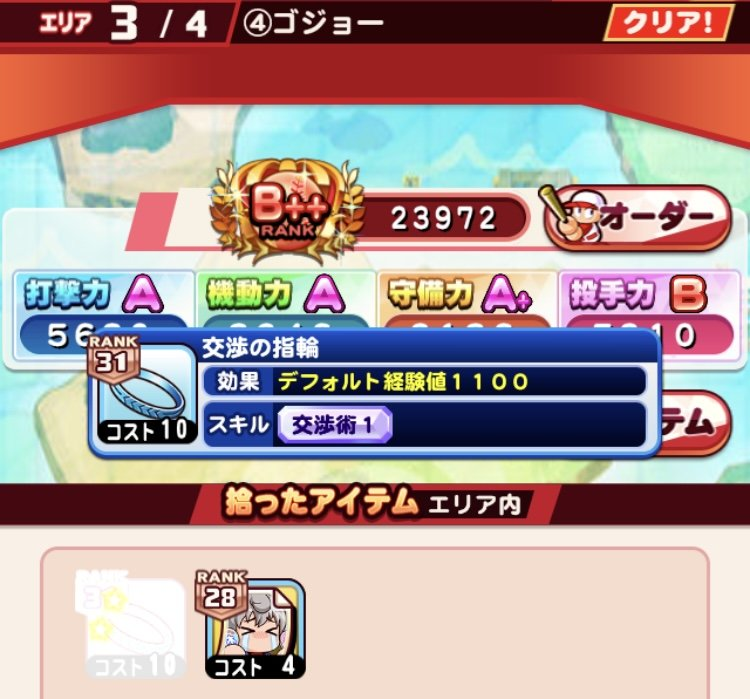
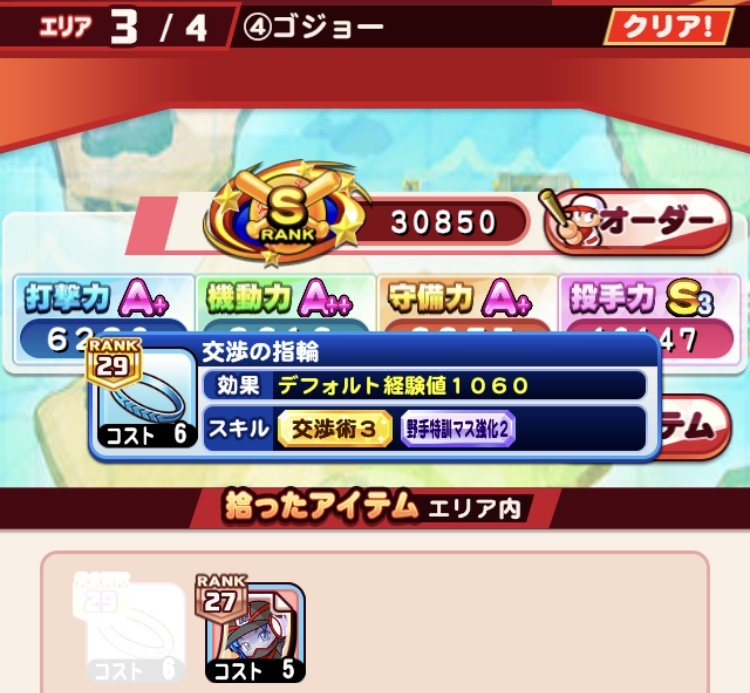
西球記クエスト④⑪の管理人メモを書き換え・④の画像を差し替え (#354)
* 西球記クエスト④の管理人メモを書き換え（画像は差し替え待ち）

Claude-Session: https://claude.ai/code/session_019YJeT2ksEZZ4rp6LiQsZVr

* 西球記クエスト④の画像を差し替え

Claude-Session: https://claude.ai/code/session_019YJeT2ksEZZ4rp6LiQsZVr

* 西球記クエスト④：メモ2行目を青文字に（管理人メモで {青:…} が使えるように）

Claude-Session: https://claude.ai/code/session_019YJeT2ksEZZ4rp6LiQsZVr

* 西球記クエスト⑪の管理人メモを書き換え（青・青太・赤の色指定）

Claude-Session: https://claude.ai/code/session_019YJeT2ksEZZ4rp6LiQsZVr

* 西球記クエスト一覧：⑯⑳など名前を区切り指定したクエストの不自然な間を詰める

Claude-Session: https://claude.ai/code/session_019YJeT2ksEZZ4rp6LiQsZVr

---------

diff --git a/src/pages/pawaque-saikyuki-quest.html b/src/pages/pawaque-saikyuki-quest.html
@@ -16,91 +16,91 @@ pq_order: 7
   <!-- QUESTS:START -->
 <div class="qc-list">
   <details class="qc qc-x" id="q1">
-    <summary><h3 class="qc-h"><span class="qc-t">①球神の名の下に</span><span class="qc-a">エリア数<b>3</b></span><span class="qc-arw" aria-hidden="true"></span></h3></summary>
+    <summary><h3 class="qc-h"><span class="qc-t"><span class="qc-n">①球神の名の下に</span></span><span class="qc-a">エリア数<b>3</b></span><span class="qc-arw" aria-hidden="true"></span></h3></summary>
     <dl class="qc-d"><dt>ドロップしやすいアイテム</dt><dd>契約書</dd><dt>ボスドロップ</dt><dd>矢部　明雄の契約書<br>など</dd></dl>
   </details>
   <details class="qc qc-x" id="q2">
-    <summary><h3 class="qc-h"><span class="qc-t">②ゴクゥ</span><span class="qc-a">エリア数<b>2</b></span><span class="qc-arw" aria-hidden="true"></span></h3></summary>
+    <summary><h3 class="qc-h"><span class="qc-t"><span class="qc-n">②ゴクゥ</span></span><span class="qc-a">エリア数<b>2</b></span><span class="qc-arw" aria-hidden="true"></span></h3></summary>
     <dl class="qc-d"><dt>ドロップしやすいアイテム</dt><dd>カード強化アイテム</dd><dt>ボスドロップ</dt><dd>香本　富久雄の契約書<br>赤原　勘八の契約書<br>など</dd></dl>
   </details>
   <details class="qc qc-x" id="q3">
-    <summary><h3 class="qc-h"><span class="qc-t">③ハッカイ</span><span class="qc-a">エリア数<b>3</b></span><span class="qc-arw" aria-hidden="true"></span></h3></summary>
+    <summary><h3 class="qc-h"><span class="qc-t"><span class="qc-n">③ハッカイ</span></span><span class="qc-a">エリア数<b>3</b></span><span class="qc-arw" aria-hidden="true"></span></h3></summary>
     <dl class="qc-d"><dt>ドロップしやすいアイテム</dt><dd>カード強化アイテム</dd><dt>ボスドロップ</dt><dd>マス強化アイテム<br>など</dd><dt>管理人メモ</dt><dd><span class="em-blue"><span class="cp-nw">このクエストから</span><span class="cp-nw">仙術・神前試合解禁</span></span></dd></dl>
   </details>
   <details class="qc qc-x" id="q4">
-    <summary><h3 class="qc-h"><span class="qc-t">④ゴジョー<span class="qc-tags"><span class="qc-tag qc-tag-b">※周回オススメ!</span></span></span><span class="qc-a">エリア数<b>4</b></span><span class="qc-arw" aria-hidden="true"></span></h3></summary>
-    <dl class="qc-d"><dt>ドロップしやすいアイテム</dt><dd>契約書</dd><dt>ボスドロップ</dt><dd>試合アイテム<br>交渉の指輪<br>など</dd><dt>管理人メモ</dt><dd>管理人はエリア3で交渉の指輪が初めてドロップしました。<img class="qc-img" src="{{root}}img/pawaque/saikyuki_q04_ring.jpg" alt="④の画像" loading="lazy"></dd></dl>
+    <summary><h3 class="qc-h"><span class="qc-t"><span class="qc-n">④ゴジョー</span><span class="qc-tags"><span class="qc-tag qc-tag-b">※周回オススメ!</span></span></span><span class="qc-a">エリア数<b>4</b></span><span class="qc-arw" aria-hidden="true"></span></h3></summary>
+    <dl class="qc-d"><dt>ドロップしやすいアイテム</dt><dd>契約書</dd><dt>ボスドロップ</dt><dd>試合アイテム<br>交渉の指輪<br>など</dd><dt>管理人メモ</dt><dd>エリア3グッドゴールにて交渉の指輪が高確率でドロップします。<br><span class="tx-b">⑪で入手した袋ノ書で使える「袋変換の術」の仙術を使って、交渉術3が付いた銀・金レアリティの交渉の指輪を厳選するのに向いています。</span><img class="qc-img" src="{{root}}img/pawaque/saikyuki_q04_ring.jpg" alt="④の画像" loading="lazy"></dd></dl>
   </details>
   <details class="qc qc-x" id="q5">
-    <summary><h3 class="qc-h"><span class="qc-t">⑤妖術野球流</span><span class="qc-a">エリア数<b>3</b></span><span class="qc-arw" aria-hidden="true"></span></h3></summary>
+    <summary><h3 class="qc-h"><span class="qc-t"><span class="qc-n">⑤妖術野球流</span></span><span class="qc-a">エリア数<b>3</b></span><span class="qc-arw" aria-hidden="true"></span></h3></summary>
     <dl class="qc-d"><dt>ドロップしやすいアイテム</dt><dd>試合アイテム</dd><dt>ボスドロップ</dt><dd>特能ノ書<br>呼応ノ書<br>金ノ書<br>など</dd></dl>
   </details>
   <details class="qc qc-x" id="q6">
-    <summary><h3 class="qc-h"><span class="qc-t">⑥刺客<span class="qc-tags"><span class="qc-tag qc-tag-b">※祈願あり</span></span></span><span class="qc-a">エリア数<b>4</b></span><span class="qc-arw" aria-hidden="true"></span></h3></summary>
+    <summary><h3 class="qc-h"><span class="qc-t"><span class="qc-n">⑥刺客</span><span class="qc-tags"><span class="qc-tag qc-tag-b">※祈願あり</span></span></span><span class="qc-a">エリア数<b>4</b></span><span class="qc-arw" aria-hidden="true"></span></h3></summary>
     <dl class="qc-d"><dt>ドロップしやすいアイテム</dt><dd>契約書<br>マス強化アイテム</dd><dt>ボスドロップ</dt><dd>野手特訓の秘伝書<br>投手特訓の秘伝書<br>など</dd><dt>管理人メモ</dt><dd><span class="em-blue">祈願エンディングあり</span></dd></dl>
   </details>
   <details class="qc qc-x" id="q7">
-    <summary><h3 class="qc-h"><span class="qc-t">⑦ひょうたんの中<span class="qc-tags"><span class="qc-tag qc-tag-r">※仙術不可</span></span></span><span class="qc-a">エリア数<b>3</b></span><span class="qc-arw" aria-hidden="true"></span></h3></summary>
+    <summary><h3 class="qc-h"><span class="qc-t"><span class="qc-n">⑦ひょうたんの中</span><span class="qc-tags"><span class="qc-tag qc-tag-r">※仙術不可</span></span></span><span class="qc-a">エリア数<b>3</b></span><span class="qc-arw" aria-hidden="true"></span></h3></summary>
     <dl class="qc-d"><dt>ドロップしやすいアイテム</dt><dd>契約書<br>試合アイテム</dd><dt>ボスドロップ</dt><dd>特殊能力攻略本<br>交渉の指輪<br>など</dd><dt>管理人メモ</dt><dd><span class="em-red">仙術は使用不可</span><br>管理人はエリア2で払拭のお札が初めてドロップしました。<img class="qc-img" src="{{root}}img/pawaque/saikyuki_q07_ofuda.jpg" alt="⑦の画像" loading="lazy"></dd></dl>
   </details>
   <details class="qc qc-x" id="q8">
-    <summary><h3 class="qc-h"><span class="qc-t">⑧斉遊野球流<span class="qc-tags"><span class="qc-tag qc-tag-r">※仙術不可</span></span></span><span class="qc-a">エリア数<b>4</b></span><span class="qc-arw" aria-hidden="true"></span></h3></summary>
+    <summary><h3 class="qc-h"><span class="qc-t"><span class="qc-n">⑧斉遊野球流</span><span class="qc-tags"><span class="qc-tag qc-tag-r">※仙術不可</span></span></span><span class="qc-a">エリア数<b>4</b></span><span class="qc-arw" aria-hidden="true"></span></h3></summary>
     <dl class="qc-d"><dt>ドロップしやすいアイテム</dt><dd>契約書<br>カード強化アイテム</dd><dt>ボスドロップ</dt><dd>ミートの良い巻物<br>パワーの良い巻物<br>走力の良い巻物<br>肩力の良い巻物<br>守備の良い巻物<br>など</dd><dt>管理人メモ</dt><dd><span class="em-red">仙術は使用不可</span></dd></dl>
   </details>
   <details class="qc qc-x" id="q9">
-    <summary><h3 class="qc-h"><span class="qc-t">⑨謎の医者</span><span class="qc-a">エリア数<b>2</b></span><span class="qc-arw" aria-hidden="true"></span></h3></summary>
+    <summary><h3 class="qc-h"><span class="qc-t"><span class="qc-n">⑨謎の医者</span></span><span class="qc-a">エリア数<b>2</b></span><span class="qc-arw" aria-hidden="true"></span></h3></summary>
     <dl class="qc-d"><dt>ドロップしやすいアイテム</dt><dd>契約書<br>カード強化アイテム</dd><dt>ボスドロップ</dt><dd><span class="em-blue">［超攻型］大西の契約書（低確率）</span><br>呼び寄せの香<br>幸運の金丹<br>など</dd></dl>
   </details>
   <details class="qc qc-x" id="q10">
-    <summary><h3 class="qc-h"><span class="qc-t">⑩炎の壁</span><span class="qc-a">エリア数<b>5</b></span><span class="qc-arw" aria-hidden="true"></span></h3></summary>
+    <summary><h3 class="qc-h"><span class="qc-t"><span class="qc-n">⑩炎の壁</span></span><span class="qc-a">エリア数<b>5</b></span><span class="qc-arw" aria-hidden="true"></span></h3></summary>
     <dl class="qc-d"><dt>ドロップしやすいアイテム</dt><dd>契約書<br>試合アイテム</dd><dt>ボスドロップ</dt><dd>潮来　美霊の契約書<br>曙　緋緒の契約書<br><span class="em-blue">［満開ステップ］ゼルヴィーの契約書（低確率）</span><br>パワ子の契約書（低確率）<br><span class="em-blue">［ムーンライト］橘　みずきの契約書（低確率）</span><br>など</dd></dl>
   </details>
   <details class="qc qc-x" id="q11">
-    <summary><h3 class="qc-h"><span class="qc-t">⑪決戦のとき<span class="qc-tags"><span class="qc-tag qc-tag-b">※周回オススメ!</span></span></span><span class="qc-a">エリア数<b>2</b></span><span class="qc-arw" aria-hidden="true"></span></h3></summary>
-    <dl class="qc-d"><dt>ドロップしやすいアイテム</dt><dd>契約書<br>カード強化アイテム</dd><dt>ボスドロップ</dt><dd>袋ノ書<br>野訓ノ書<br>など</dd><dt>管理人メモ</dt><dd><span class="em-blue"><span class="cp-nw">管理人はここで初めて</span><span class="cp-nw">袋ノ書がドロップしました。</span></span><img class="qc-img" src="{{root}}img/pawaque/saikyuki_q11_fukuro.jpg" alt="⑪の画像" loading="lazy"></dd></dl>
+    <summary><h3 class="qc-h"><span class="qc-t"><span class="qc-n">⑪決戦のとき</span><span class="qc-tags"><span class="qc-tag qc-tag-b">※周回オススメ!</span></span></span><span class="qc-a">エリア数<b>2</b></span><span class="qc-arw" aria-hidden="true"></span></h3></summary>
+    <dl class="qc-d"><dt>ドロップしやすいアイテム</dt><dd>契約書<br>カード強化アイテム</dd><dt>ボスドロップ</dt><dd>袋ノ書<br>野訓ノ書<br>など</dd><dt>管理人メモ</dt><dd>エリア1クリアで、袋ノ書が実践上確定でドロップします。<br><span class="tx-b">仙術「袋変換の術」を使って、銀・金レアリティかつ、優秀なスキルが付いた袋ノ書を厳選するのに向いています。</span><br>スキルの狙い目は、<span class="em-blue">「ターンアップ」「〇カード特殊能力」</span>などです。<br>実践上、<span class="tx-r">ここでドロップする袋ノ書には西球記専用スキル(祈願率UPなど)は追加で付かないようです。</span>付いた方いたらXなどで教えて頂けると幸いです。<img class="qc-img" src="{{root}}img/pawaque/saikyuki_q11_fukuro.jpg" alt="⑪の画像" loading="lazy"></dd></dl>
   </details>
   <details class="qc qc-x" id="q12">
-    <summary><h3 class="qc-h"><span class="qc-t">⑫旅は続く<span class="qc-tags"><span class="qc-tag qc-tag-b">※祈願あり</span></span></span><span class="qc-a">エリア数<b>4</b></span><span class="qc-arw" aria-hidden="true"></span></h3></summary>
+    <summary><h3 class="qc-h"><span class="qc-t"><span class="qc-n">⑫旅は続く</span><span class="qc-tags"><span class="qc-tag qc-tag-b">※祈願あり</span></span></span><span class="qc-a">エリア数<b>4</b></span><span class="qc-arw" aria-hidden="true"></span></h3></summary>
     <dl class="qc-d"><dt>ドロップしやすいアイテム</dt><dd>契約書<br>カード強化アイテム</dd><dt>ボスドロップ</dt><dd><span class="em-blue">［アルティメット］明神　陽の契約書（超低確率）</span><br><span class="em-blue">［白轟］北斗　八雲の契約書（低確率）</span><br>リュック＋<br>など</dd><dt>管理人メモ</dt><dd><span class="em-blue">祈願エンディングあり<br><span class="cp-nw">管理人はここで初めて</span><span class="cp-nw">リュック＋がドロップしました。</span></span><img class="qc-img" src="{{root}}img/pawaque/saikyuki_q12_ryukku.jpg" alt="⑫の画像" loading="lazy"></dd></dl>
   </details>
   <details class="qc qc-x" id="q13">
-    <summary><h3 class="qc-h"><span class="qc-t">⑬道中１<span class="qc-tags"><span class="qc-tag qc-tag-b">※祈願あり</span></span></span><span class="qc-a">エリア数<b>3</b></span><span class="qc-arw" aria-hidden="true"></span></h3></summary>
+    <summary><h3 class="qc-h"><span class="qc-t"><span class="qc-n">⑬道中１</span><span class="qc-tags"><span class="qc-tag qc-tag-b">※祈願あり</span></span></span><span class="qc-a">エリア数<b>3</b></span><span class="qc-arw" aria-hidden="true"></span></h3></summary>
     <dl class="qc-d"><dt>ドロップしやすいアイテム</dt><dd>契約書</dd><dt>ボスドロップ</dt><dd><span class="em-blue">［パワポケ］鋼　毅の契約書</span><br><span class="em-blue">［猫かぶり］大空　美代子の契約書</span><br><span class="em-blue">［花丸］レッドの契約書（超低確率）</span><br>リュック＋<br>など</dd><dt>管理人メモ</dt><dd><span class="em-blue">祈願エンディングあり</span></dd></dl>
   </details>
   <details class="qc qc-x" id="q14">
-    <summary><h3 class="qc-h"><span class="qc-t">⑭妖の首領</span><span class="qc-a">エリア数<b>2</b></span><span class="qc-arw" aria-hidden="true"></span></h3></summary>
+    <summary><h3 class="qc-h"><span class="qc-t"><span class="qc-n">⑭妖の首領</span></span><span class="qc-a">エリア数<b>2</b></span><span class="qc-arw" aria-hidden="true"></span></h3></summary>
     <dl class="qc-d"><dt>ドロップしやすいアイテム</dt><dd>契約書</dd><dt>ボスドロップ</dt><dd>投訓ノ書<br>空白ノ書<br>巨大リュック<br>など</dd></dl>
   </details>
   <details class="qc qc-x" id="q15">
-    <summary><h3 class="qc-h"><span class="qc-t">⑮天塁</span><span class="qc-a">エリア数<b>4</b></span><span class="qc-arw" aria-hidden="true"></span></h3></summary>
+    <summary><h3 class="qc-h"><span class="qc-t"><span class="qc-n">⑮天塁</span></span><span class="qc-a">エリア数<b>4</b></span><span class="qc-arw" aria-hidden="true"></span></h3></summary>
     <dl class="qc-d"><dt>ドロップしやすいアイテム</dt><dd>契約書</dd><dt>ボスドロップ</dt><dd><span class="em-blue">［秘密兵器］虹谷　彩理の契約書</span><br><span class="em-blue">［最終兵器］虹谷　誠の契約書（超低確率）</span><br><span class="em-blue">［帝王実業］友沢　亮の契約書</span><br><span class="em-blue">［ピクニック］高原　曲の契約書</span><br>など</dd></dl>
   </details>
   <details class="qc qc-x" id="q16">
-    <summary><h3 class="qc-h"><span class="qc-t">⑯<span class="cp-nw">妖術野球流の</span><span class="cp-nw">陰謀</span><span class="qc-tags"><span class="qc-tag qc-tag-r">※仙術不可</span></span></span><span class="qc-a">エリア数<b>2</b></span><span class="qc-arw" aria-hidden="true"></span></h3></summary>
+    <summary><h3 class="qc-h"><span class="qc-t"><span class="qc-n">⑯<span class="cp-nw">妖術野球流の</span><span class="cp-nw">陰謀</span></span><span class="qc-tags"><span class="qc-tag qc-tag-r">※仙術不可</span></span></span><span class="qc-a">エリア数<b>2</b></span><span class="qc-arw" aria-hidden="true"></span></h3></summary>
     <dl class="qc-d"><dt>ドロップしやすいアイテム</dt><dd>カード強化アイテム</dd><dt>ボスドロップ</dt><dd>特殊能力攻略本<br>など</dd><dt>管理人メモ</dt><dd><span class="em-red">仙術は使用不可</span></dd></dl>
   </details>
   <details class="qc qc-x" id="q17">
-    <summary><h3 class="qc-h"><span class="qc-t">⑰紅朱</span><span class="qc-a">エリア数<b>5</b></span><span class="qc-arw" aria-hidden="true"></span></h3></summary>
+    <summary><h3 class="qc-h"><span class="qc-t"><span class="qc-n">⑰紅朱</span></span><span class="qc-a">エリア数<b>5</b></span><span class="qc-arw" aria-hidden="true"></span></h3></summary>
     <dl class="qc-d"><dt>ドロップしやすいアイテム</dt><dd>カード強化アイテム</dd><dt>ボスドロップ</dt><dd><span class="em-blue">［わんこだよ！］パーちゃんの契約書</span><br><span class="em-blue">［最終兵器］虹谷　誠の契約書（超低確率）</span><br>など</dd></dl>
   </details>
   <details class="qc qc-x" id="q18">
-    <summary><h3 class="qc-h"><span class="qc-t">⑱道中２<span class="qc-tags"><span class="qc-tag qc-tag-b">※祈願あり</span></span></span><span class="qc-a">エリア数<b>3</b></span><span class="qc-arw" aria-hidden="true"></span></h3></summary>
+    <summary><h3 class="qc-h"><span class="qc-t"><span class="qc-n">⑱道中２</span><span class="qc-tags"><span class="qc-tag qc-tag-b">※祈願あり</span></span></span><span class="qc-a">エリア数<b>3</b></span><span class="qc-arw" aria-hidden="true"></span></h3></summary>
     <dl class="qc-d"><dt>ドロップしやすいアイテム</dt><dd>契約書<br>マス強化アイテム</dd><dt>ボスドロップ</dt><dd>巨大リュック＋<br>特殊能力秘伝書<br><span class="em-blue">［アルティメット］明神　陽の契約書（超低確率）</span><br>など</dd><dt>管理人メモ</dt><dd><span class="em-blue">祈願エンディングあり</span></dd></dl>
   </details>
   <details class="qc qc-x" id="q19">
-    <summary><h3 class="qc-h"><span class="qc-t">⑲道中３<span class="qc-tags"><span class="qc-tag qc-tag-b">※祈願あり</span></span></span><span class="qc-a">エリア数<b>3</b></span><span class="qc-arw" aria-hidden="true"></span></h3></summary>
+    <summary><h3 class="qc-h"><span class="qc-t"><span class="qc-n">⑲道中３</span><span class="qc-tags"><span class="qc-tag qc-tag-b">※祈願あり</span></span></span><span class="qc-a">エリア数<b>3</b></span><span class="qc-arw" aria-hidden="true"></span></h3></summary>
     <dl class="qc-d"><dt>ドロップしやすいアイテム</dt><dd>契約書</dd><dt>ボスドロップ</dt><dd>巨大リュック＋<br>特能ノ書<br>金ノ書<br><span class="em-blue">［超攻型］大西の契約書</span><br><span class="em-blue">［匠の技］堂江の契約書（低確率）</span><br>など</dd><dt>管理人メモ</dt><dd><span class="em-blue">祈願エンディングあり</span><br><span class="em-red">神前試合マスが少ない</span></dd></dl>
   </details>
   <details class="qc qc-x" id="q20">
-    <summary><h3 class="qc-h"><span class="qc-t">⑳<span class="cp-nw">原典の</span><span class="cp-nw">ルールブック</span></span><span class="qc-a">エリア数<b>5</b></span><span class="qc-arw" aria-hidden="true"></span></h3></summary>
+    <summary><h3 class="qc-h"><span class="qc-t"><span class="qc-n">⑳<span class="cp-nw">原典の</span><span class="cp-nw">ルールブック</span></span></span><span class="qc-a">エリア数<b>5</b></span><span class="qc-arw" aria-hidden="true"></span></h3></summary>
     <dl class="qc-d"><dt>ドロップしやすいアイテム</dt><dd>契約書<br>マス強化アイテム</dd><dt>ボスドロップ</dt><dd>巨大リュック＋<br><span class="em-blue">［最終兵器］虹谷　誠の契約書（超低確率）</span><br>など</dd></dl>
   </details>
   <details class="qc qc-x" id="q21">
-    <summary><h3 class="qc-h"><span class="qc-t">むずクエ<span class="qc-tags"><span class="qc-tag qc-tag-b">※祈願あり</span></span></span><span class="qc-a">エリア数<b>3</b></span><span class="qc-arw" aria-hidden="true"></span></h3></summary>
+    <summary><h3 class="qc-h"><span class="qc-t"><span class="qc-n">むずクエ</span><span class="qc-tags"><span class="qc-tag qc-tag-b">※祈願あり</span></span></span><span class="qc-a">エリア数<b>3</b></span><span class="qc-arw" aria-hidden="true"></span></h3></summary>
     <dl class="qc-d"><dt>ドロップしやすいアイテム</dt><dd>契約書<br>カード強化アイテム</dd><dt>ボスドロップ</dt><dd>巨大リュック＋<br>異世界のカバン<br>アフロ猪狩の契約書<br>野球マスクの契約書<br>など</dd><dt>管理人メモ</dt><dd><span class="em-blue">祈願エンディングあり</span></dd></dl>
   </details>
   <details class="qc qc-x" id="q22">
-    <summary><h3 class="qc-h"><span class="qc-t">むちゃクエ</span><span class="qc-a">エリア数<b>5</b></span><span class="qc-arw" aria-hidden="true"></span></h3></summary>
+    <summary><h3 class="qc-h"><span class="qc-t"><span class="qc-n">むちゃクエ</span></span><span class="qc-a">エリア数<b>5</b></span><span class="qc-arw" aria-hidden="true"></span></h3></summary>
     <dl class="qc-d"><dt>ドロップしやすいアイテム</dt><dd>契約書<br>マス強化アイテム</dd><dt>ボスドロップ</dt><dd>巨大リュック＋<br>異世界のカバン<br><span class="em-blue">［匠の技］堂江の契約書（低確率）</span><br><span class="em-blue">［アルティメット］明神　陽の契約書（超低確率）</span><br>など</dd></dl>
   </details>
 </div>

diff --git a/docs/pawaque/saikyuki/quest/index.html b/docs/pawaque/saikyuki/quest/index.html
@@ -65,91 +65,91 @@
   <!-- QUESTS:START -->
 <div class="qc-list">
   <details class="qc qc-x" id="q1">
-    <summary><h3 class="qc-h"><span class="qc-t">①球神の名の下に</span><span class="qc-a">エリア数<b>3</b></span><span class="qc-arw" aria-hidden="true"></span></h3></summary>
+    <summary><h3 class="qc-h"><span class="qc-t"><span class="qc-n">①球神の名の下に</span></span><span class="qc-a">エリア数<b>3</b></span><span class="qc-arw" aria-hidden="true"></span></h3></summary>
     <dl class="qc-d"><dt>ドロップしやすいアイテム</dt><dd>契約書</dd><dt>ボスドロップ</dt><dd>矢部　明雄の契約書<br>など</dd></dl>
   </details>
   <details class="qc qc-x" id="q2">
-    <summary><h3 class="qc-h"><span class="qc-t">②ゴクゥ</span><span class="qc-a">エリア数<b>2</b></span><span class="qc-arw" aria-hidden="true"></span></h3></summary>
+    <summary><h3 class="qc-h"><span class="qc-t"><span class="qc-n">②ゴクゥ</span></span><span class="qc-a">エリア数<b>2</b></span><span class="qc-arw" aria-hidden="true"></span></h3></summary>
     <dl class="qc-d"><dt>ドロップしやすいアイテム</dt><dd>カード強化アイテム</dd><dt>ボスドロップ</dt><dd>香本　富久雄の契約書<br>赤原　勘八の契約書<br>など</dd></dl>
   </details>
   <details class="qc qc-x" id="q3">
-    <summary><h3 class="qc-h"><span class="qc-t">③ハッカイ</span><span class="qc-a">エリア数<b>3</b></span><span class="qc-arw" aria-hidden="true"></span></h3></summary>
+    <summary><h3 class="qc-h"><span class="qc-t"><span class="qc-n">③ハッカイ</span></span><span class="qc-a">エリア数<b>3</b></span><span class="qc-arw" aria-hidden="true"></span></h3></summary>
     <dl class="qc-d"><dt>ドロップしやすいアイテム</dt><dd>カード強化アイテム</dd><dt>ボスドロップ</dt><dd>マス強化アイテム<br>など</dd><dt>管理人メモ</dt><dd><span class="em-blue"><span class="cp-nw">このクエストから</span><span class="cp-nw">仙術・神前試合解禁</span></span></dd></dl>
   </details>
   <details class="qc qc-x" id="q4">
-    <summary><h3 class="qc-h"><span class="qc-t">④ゴジョー<span class="qc-tags"><span class="qc-tag qc-tag-b">※周回オススメ!</span></span></span><span class="qc-a">エリア数<b>4</b></span><span class="qc-arw" aria-hidden="true"></span></h3></summary>
-    <dl class="qc-d"><dt>ドロップしやすいアイテム</dt><dd>契約書</dd><dt>ボスドロップ</dt><dd>試合アイテム<br>交渉の指輪<br>など</dd><dt>管理人メモ</dt><dd>管理人はエリア3で交渉の指輪が初めてドロップしました。<img class="qc-img" src="../../../img/pawaque/saikyuki_q04_ring.jpg" alt="④の画像" loading="lazy"></dd></dl>
+    <summary><h3 class="qc-h"><span class="qc-t"><span class="qc-n">④ゴジョー</span><span class="qc-tags"><span class="qc-tag qc-tag-b">※周回オススメ!</span></span></span><span class="qc-a">エリア数<b>4</b></span><span class="qc-arw" aria-hidden="true"></span></h3></summary>
+    <dl class="qc-d"><dt>ドロップしやすいアイテム</dt><dd>契約書</dd><dt>ボスドロップ</dt><dd>試合アイテム<br>交渉の指輪<br>など</dd><dt>管理人メモ</dt><dd>エリア3グッドゴールにて交渉の指輪が高確率でドロップします。<br><span class="tx-b">⑪で入手した袋ノ書で使える「袋変換の術」の仙術を使って、交渉術3が付いた銀・金レアリティの交渉の指輪を厳選するのに向いています。</span><img class="qc-img" src="../../../img/pawaque/saikyuki_q04_ring.jpg" alt="④の画像" loading="lazy"></dd></dl>
   </details>
   <details class="qc qc-x" id="q5">
-    <summary><h3 class="qc-h"><span class="qc-t">⑤妖術野球流</span><span class="qc-a">エリア数<b>3</b></span><span class="qc-arw" aria-hidden="true"></span></h3></summary>
+    <summary><h3 class="qc-h"><span class="qc-t"><span class="qc-n">⑤妖術野球流</span></span><span class="qc-a">エリア数<b>3</b></span><span class="qc-arw" aria-hidden="true"></span></h3></summary>
     <dl class="qc-d"><dt>ドロップしやすいアイテム</dt><dd>試合アイテム</dd><dt>ボスドロップ</dt><dd>特能ノ書<br>呼応ノ書<br>金ノ書<br>など</dd></dl>
   </details>
   <details class="qc qc-x" id="q6">
-    <summary><h3 class="qc-h"><span class="qc-t">⑥刺客<span class="qc-tags"><span class="qc-tag qc-tag-b">※祈願あり</span></span></span><span class="qc-a">エリア数<b>4</b></span><span class="qc-arw" aria-hidden="true"></span></h3></summary>
+    <summary><h3 class="qc-h"><span class="qc-t"><span class="qc-n">⑥刺客</span><span class="qc-tags"><span class="qc-tag qc-tag-b">※祈願あり</span></span></span><span class="qc-a">エリア数<b>4</b></span><span class="qc-arw" aria-hidden="true"></span></h3></summary>
     <dl class="qc-d"><dt>ドロップしやすいアイテム</dt><dd>契約書<br>マス強化アイテム</dd><dt>ボスドロップ</dt><dd>野手特訓の秘伝書<br>投手特訓の秘伝書<br>など</dd><dt>管理人メモ</dt><dd><span class="em-blue">祈願エンディングあり</span></dd></dl>
   </details>
   <details class="qc qc-x" id="q7">
-    <summary><h3 class="qc-h"><span class="qc-t">⑦ひょうたんの中<span class="qc-tags"><span class="qc-tag qc-tag-r">※仙術不可</span></span></span><span class="qc-a">エリア数<b>3</b></span><span class="qc-arw" aria-hidden="true"></span></h3></summary>
+    <summary><h3 class="qc-h"><span class="qc-t"><span class="qc-n">⑦ひょうたんの中</span><span class="qc-tags"><span class="qc-tag qc-tag-r">※仙術不可</span></span></span><span class="qc-a">エリア数<b>3</b></span><span class="qc-arw" aria-hidden="true"></span></h3></summary>
     <dl class="qc-d"><dt>ドロップしやすいアイテム</dt><dd>契約書<br>試合アイテム</dd><dt>ボスドロップ</dt><dd>特殊能力攻略本<br>交渉の指輪<br>など</dd><dt>管理人メモ</dt><dd><span class="em-red">仙術は使用不可</span><br>管理人はエリア2で払拭のお札が初めてドロップしました。<img class="qc-img" src="../../../img/pawaque/saikyuki_q07_ofuda.jpg" alt="⑦の画像" loading="lazy"></dd></dl>
   </details>
   <details class="qc qc-x" id="q8">
-    <summary><h3 class="qc-h"><span class="qc-t">⑧斉遊野球流<span class="qc-tags"><span class="qc-tag qc-tag-r">※仙術不可</span></span></span><span class="qc-a">エリア数<b>4</b></span><span class="qc-arw" aria-hidden="true"></span></h3></summary>
+    <summary><h3 class="qc-h"><span class="qc-t"><span class="qc-n">⑧斉遊野球流</span><span class="qc-tags"><span class="qc-tag qc-tag-r">※仙術不可</span></span></span><span class="qc-a">エリア数<b>4</b></span><span class="qc-arw" aria-hidden="true"></span></h3></summary>
     <dl class="qc-d"><dt>ドロップしやすいアイテム</dt><dd>契約書<br>カード強化アイテム</dd><dt>ボスドロップ</dt><dd>ミートの良い巻物<br>パワーの良い巻物<br>走力の良い巻物<br>肩力の良い巻物<br>守備の良い巻物<br>など</dd><dt>管理人メモ</dt><dd><span class="em-red">仙術は使用不可</span></dd></dl>
   </details>
   <details class="qc qc-x" id="q9">
-    <summary><h3 class="qc-h"><span class="qc-t">⑨謎の医者</span><span class="qc-a">エリア数<b>2</b></span><span class="qc-arw" aria-hidden="true"></span></h3></summary>
+    <summary><h3 class="qc-h"><span class="qc-t"><span class="qc-n">⑨謎の医者</span></span><span class="qc-a">エリア数<b>2</b></span><span class="qc-arw" aria-hidden="true"></span></h3></summary>
     <dl class="qc-d"><dt>ドロップしやすいアイテム</dt><dd>契約書<br>カード強化アイテム</dd><dt>ボスドロップ</dt><dd><span class="em-blue">［超攻型］大西の契約書（低確率）</span><br>呼び寄せの香<br>幸運の金丹<br>など</dd></dl>
   </details>
   <details class="qc qc-x" id="q10">
-    <summary><h3 class="qc-h"><span class="qc-t">⑩炎の壁</span><span class="qc-a">エリア数<b>5</b></span><span class="qc-arw" aria-hidden="true"></span></h3></summary>
+    <summary><h3 class="qc-h"><span class="qc-t"><span class="qc-n">⑩炎の壁</span></span><span class="qc-a">エリア数<b>5</b></span><span class="qc-arw" aria-hidden="true"></span></h3></summary>
     <dl class="qc-d"><dt>ドロップしやすいアイテム</dt><dd>契約書<br>試合アイテム</dd><dt>ボスドロップ</dt><dd>潮来　美霊の契約書<br>曙　緋緒の契約書<br><span class="em-blue">［満開ステップ］ゼルヴィーの契約書（低確率）</span><br>パワ子の契約書（低確率）<br><span class="em-blue">［ムーンライト］橘　みずきの契約書（低確率）</span><br>など</dd></dl>
   </details>
   <details class="qc qc-x" id="q11">
-    <summary><h3 class="qc-h"><span class="qc-t">⑪決戦のとき<span class="qc-tags"><span class="qc-tag qc-tag-b">※周回オススメ!</span></span></span><span class="qc-a">エリア数<b>2</b></span><span class="qc-arw" aria-hidden="true"></span></h3></summary>
-    <dl class="qc-d"><dt>ドロップしやすいアイテム</dt><dd>契約書<br>カード強化アイテム</dd><dt>ボスドロップ</dt><dd>袋ノ書<br>野訓ノ書<br>など</dd><dt>管理人メモ</dt><dd><span class="em-blue"><span class="cp-nw">管理人はここで初めて</span><span class="cp-nw">袋ノ書がドロップしました。</span></span><img class="qc-img" src="../../../img/pawaque/saikyuki_q11_fukuro.jpg" alt="⑪の画像" loading="lazy"></dd></dl>
+    <summary><h3 class="qc-h"><span class="qc-t"><span class="qc-n">⑪決戦のとき</span><span class="qc-tags"><span class="qc-tag qc-tag-b">※周回オススメ!</span></span></span><span class="qc-a">エリア数<b>2</b></span><span class="qc-arw" aria-hidden="true"></span></h3></summary>
+    <dl class="qc-d"><dt>ドロップしやすいアイテム</dt><dd>契約書<br>カード強化アイテム</dd><dt>ボスドロップ</dt><dd>袋ノ書<br>野訓ノ書<br>など</dd><dt>管理人メモ</dt><dd>エリア1クリアで、袋ノ書が実践上確定でドロップします。<br><span class="tx-b">仙術「袋変換の術」を使って、銀・金レアリティかつ、優秀なスキルが付いた袋ノ書を厳選するのに向いています。</span><br>スキルの狙い目は、<span class="em-blue">「ターンアップ」「〇カード特殊能力」</span>などです。<br>実践上、<span class="tx-r">ここでドロップする袋ノ書には西球記専用スキル(祈願率UPなど)は追加で付かないようです。</span>付いた方いたらXなどで教えて頂けると幸いです。<img class="qc-img" src="../../../img/pawaque/saikyuki_q11_fukuro.jpg" alt="⑪の画像" loading="lazy"></dd></dl>
   </details>
   <details class="qc qc-x" id="q12">
-    <summary><h3 class="qc-h"><span class="qc-t">⑫旅は続く<span class="qc-tags"><span class="qc-tag qc-tag-b">※祈願あり</span></span></span><span class="qc-a">エリア数<b>4</b></span><span class="qc-arw" aria-hidden="true"></span></h3></summary>
+    <summary><h3 class="qc-h"><span class="qc-t"><span class="qc-n">⑫旅は続く</span><span class="qc-tags"><span class="qc-tag qc-tag-b">※祈願あり</span></span></span><span class="qc-a">エリア数<b>4</b></span><span class="qc-arw" aria-hidden="true"></span></h3></summary>
     <dl class="qc-d"><dt>ドロップしやすいアイテム</dt><dd>契約書<br>カード強化アイテム</dd><dt>ボスドロップ</dt><dd><span class="em-blue">［アルティメット］明神　陽の契約書（超低確率）</span><br><span class="em-blue">［白轟］北斗　八雲の契約書（低確率）</span><br>リュック＋<br>など</dd><dt>管理人メモ</dt><dd><span class="em-blue">祈願エンディングあり<br><span class="cp-nw">管理人はここで初めて</span><span class="cp-nw">リュック＋がドロップしました。</span></span><img class="qc-img" src="../../../img/pawaque/saikyuki_q12_ryukku.jpg" alt="⑫の画像" loading="lazy"></dd></dl>
   </details>
   <details class="qc qc-x" id="q13">
-    <summary><h3 class="qc-h"><span class="qc-t">⑬道中１<span class="qc-tags"><span class="qc-tag qc-tag-b">※祈願あり</span></span></span><span class="qc-a">エリア数<b>3</b></span><span class="qc-arw" aria-hidden="true"></span></h3></summary>
+    <summary><h3 class="qc-h"><span class="qc-t"><span class="qc-n">⑬道中１</span><span class="qc-tags"><span class="qc-tag qc-tag-b">※祈願あり</span></span></span><span class="qc-a">エリア数<b>3</b></span><span class="qc-arw" aria-hidden="true"></span></h3></summary>
     <dl class="qc-d"><dt>ドロップしやすいアイテム</dt><dd>契約書</dd><dt>ボスドロップ</dt><dd><span class="em-blue">［パワポケ］鋼　毅の契約書</span><br><span class="em-blue">［猫かぶり］大空　美代子の契約書</span><br><span class="em-blue">［花丸］レッドの契約書（超低確率）</span><br>リュック＋<br>など</dd><dt>管理人メモ</dt><dd><span class="em-blue">祈願エンディングあり</span></dd></dl>
   </details>
   <details class="qc qc-x" id="q14">
-    <summary><h3 class="qc-h"><span class="qc-t">⑭妖の首領</span><span class="qc-a">エリア数<b>2</b></span><span class="qc-arw" aria-hidden="true"></span></h3></summary>
+    <summary><h3 class="qc-h"><span class="qc-t"><span class="qc-n">⑭妖の首領</span></span><span class="qc-a">エリア数<b>2</b></span><span class="qc-arw" aria-hidden="true"></span></h3></summary>
     <dl class="qc-d"><dt>ドロップしやすいアイテム</dt><dd>契約書</dd><dt>ボスドロップ</dt><dd>投訓ノ書<br>空白ノ書<br>巨大リュック<br>など</dd></dl>
   </details>
   <details class="qc qc-x" id="q15">
-    <summary><h3 class="qc-h"><span class="qc-t">⑮天塁</span><span class="qc-a">エリア数<b>4</b></span><span class="qc-arw" aria-hidden="true"></span></h3></summary>
+    <summary><h3 class="qc-h"><span class="qc-t"><span class="qc-n">⑮天塁</span></span><span class="qc-a">エリア数<b>4</b></span><span class="qc-arw" aria-hidden="true"></span></h3></summary>
     <dl class="qc-d"><dt>ドロップしやすいアイテム</dt><dd>契約書</dd><dt>ボスドロップ</dt><dd><span class="em-blue">［秘密兵器］虹谷　彩理の契約書</span><br><span class="em-blue">［最終兵器］虹谷　誠の契約書（超低確率）</span><br><span class="em-blue">［帝王実業］友沢　亮の契約書</span><br><span class="em-blue">［ピクニック］高原　曲の契約書</span><br>など</dd></dl>
   </details>
   <details class="qc qc-x" id="q16">
-    <summary><h3 class="qc-h"><span class="qc-t">⑯<span class="cp-nw">妖術野球流の</span><span class="cp-nw">陰謀</span><span class="qc-tags"><span class="qc-tag qc-tag-r">※仙術不可</span></span></span><span class="qc-a">エリア数<b>2</b></span><span class="qc-arw" aria-hidden="true"></span></h3></summary>
+    <summary><h3 class="qc-h"><span class="qc-t"><span class="qc-n">⑯<span class="cp-nw">妖術野球流の</span><span class="cp-nw">陰謀</span></span><span class="qc-tags"><span class="qc-tag qc-tag-r">※仙術不可</span></span></span><span class="qc-a">エリア数<b>2</b></span><span class="qc-arw" aria-hidden="true"></span></h3></summary>
     <dl class="qc-d"><dt>ドロップしやすいアイテム</dt><dd>カード強化アイテム</dd><dt>ボスドロップ</dt><dd>特殊能力攻略本<br>など</dd><dt>管理人メモ</dt><dd><span class="em-red">仙術は使用不可</span></dd></dl>
   </details>
   <details class="qc qc-x" id="q17">
-    <summary><h3 class="qc-h"><span class="qc-t">⑰紅朱</span><span class="qc-a">エリア数<b>5</b></span><span class="qc-arw" aria-hidden="true"></span></h3></summary>
+    <summary><h3 class="qc-h"><span class="qc-t"><span class="qc-n">⑰紅朱</span></span><span class="qc-a">エリア数<b>5</b></span><span class="qc-arw" aria-hidden="true"></span></h3></summary>
     <dl class="qc-d"><dt>ドロップしやすいアイテム</dt><dd>カード強化アイテム</dd><dt>ボスドロップ</dt><dd><span class="em-blue">［わんこだよ！］パーちゃんの契約書</span><br><span class="em-blue">［最終兵器］虹谷　誠の契約書（超低確率）</span><br>など</dd></dl>
   </details>
   <details class="qc qc-x" id="q18">
-    <summary><h3 class="qc-h"><span class="qc-t">⑱道中２<span class="qc-tags"><span class="qc-tag qc-tag-b">※祈願あり</span></span></span><span class="qc-a">エリア数<b>3</b></span><span class="qc-arw" aria-hidden="true"></span></h3></summary>
+    <summary><h3 class="qc-h"><span class="qc-t"><span class="qc-n">⑱道中２</span><span class="qc-tags"><span class="qc-tag qc-tag-b">※祈願あり</span></span></span><span class="qc-a">エリア数<b>3</b></span><span class="qc-arw" aria-hidden="true"></span></h3></summary>
     <dl class="qc-d"><dt>ドロップしやすいアイテム</dt><dd>契約書<br>マス強化アイテム</dd><dt>ボスドロップ</dt><dd>巨大リュック＋<br>特殊能力秘伝書<br><span class="em-blue">［アルティメット］明神　陽の契約書（超低確率）</span><br>など</dd><dt>管理人メモ</dt><dd><span class="em-blue">祈願エンディングあり</span></dd></dl>
   </details>
   <details class="qc qc-x" id="q19">
-    <summary><h3 class="qc-h"><span class="qc-t">⑲道中３<span class="qc-tags"><span class="qc-tag qc-tag-b">※祈願あり</span></span></span><span class="qc-a">エリア数<b>3</b></span><span class="qc-arw" aria-hidden="true"></span></h3></summary>
+    <summary><h3 class="qc-h"><span class="qc-t"><span class="qc-n">⑲道中３</span><span class="qc-tags"><span class="qc-tag qc-tag-b">※祈願あり</span></span></span><span class="qc-a">エリア数<b>3</b></span><span class="qc-arw" aria-hidden="true"></span></h3></summary>
     <dl class="qc-d"><dt>ドロップしやすいアイテム</dt><dd>契約書</dd><dt>ボスドロップ</dt><dd>巨大リュック＋<br>特能ノ書<br>金ノ書<br><span class="em-blue">［超攻型］大西の契約書</span><br><span class="em-blue">［匠の技］堂江の契約書（低確率）</span><br>など</dd><dt>管理人メモ</dt><dd><span class="em-blue">祈願エンディングあり</span><br><span class="em-red">神前試合マスが少ない</span></dd></dl>
   </details>
   <details class="qc qc-x" id="q20">
-    <summary><h3 class="qc-h"><span class="qc-t">⑳<span class="cp-nw">原典の</span><span class="cp-nw">ルールブック</span></span><span class="qc-a">エリア数<b>5</b></span><span class="qc-arw" aria-hidden="true"></span></h3></summary>
+    <summary><h3 class="qc-h"><span class="qc-t"><span class="qc-n">⑳<span class="cp-nw">原典の</span><span class="cp-nw">ルールブック</span></span></span><span class="qc-a">エリア数<b>5</b></span><span class="qc-arw" aria-hidden="true"></span></h3></summary>
     <dl class="qc-d"><dt>ドロップしやすいアイテム</dt><dd>契約書<br>マス強化アイテム</dd><dt>ボスドロップ</dt><dd>巨大リュック＋<br><span class="em-blue">［最終兵器］虹谷　誠の契約書（超低確率）</span><br>など</dd></dl>
   </details>
   <details class="qc qc-x" id="q21">
-    <summary><h3 class="qc-h"><span class="qc-t">むずクエ<span class="qc-tags"><span class="qc-tag qc-tag-b">※祈願あり</span></span></span><span class="qc-a">エリア数<b>3</b></span><span class="qc-arw" aria-hidden="true"></span></h3></summary>
+    <summary><h3 class="qc-h"><span class="qc-t"><span class="qc-n">むずクエ</span><span class="qc-tags"><span class="qc-tag qc-tag-b">※祈願あり</span></span></span><span class="qc-a">エリア数<b>3</b></span><span class="qc-arw" aria-hidden="true"></span></h3></summary>
     <dl class="qc-d"><dt>ドロップしやすいアイテム</dt><dd>契約書<br>カード強化アイテム</dd><dt>ボスドロップ</dt><dd>巨大リュック＋<br>異世界のカバン<br>アフロ猪狩の契約書<br>野球マスクの契約書<br>など</dd><dt>管理人メモ</dt><dd><span class="em-blue">祈願エンディングあり</span></dd></dl>
   </details>
   <details class="qc qc-x" id="q22">
-    <summary><h3 class="qc-h"><span class="qc-t">むちゃクエ</span><span class="qc-a">エリア数<b>5</b></span><span class="qc-arw" aria-hidden="true"></span></h3></summary>
+    <summary><h3 class="qc-h"><span class="qc-t"><span class="qc-n">むちゃクエ</span></span><span class="qc-a">エリア数<b>5</b></span><span class="qc-arw" aria-hidden="true"></span></h3></summary>
     <dl class="qc-d"><dt>ドロップしやすいアイテム</dt><dd>契約書<br>マス強化アイテム</dd><dt>ボスドロップ</dt><dd>巨大リュック＋<br>異世界のカバン<br><span class="em-blue">［匠の技］堂江の契約書（低確率）</span><br><span class="em-blue">［アルティメット］明神　陽の契約書（超低確率）</span><br>など</dd></dl>
   </details>
 </div>

diff --git a/src/pages/pawaque-saikyuki.html b/src/pages/pawaque-saikyuki.html
@@ -50,12 +50,16 @@ pq_latest: yes
   <h2 id="memo">クエストのポイント</h2>
   <ul>
     <li><a href="{{root}}pawaque/saikyuki/quest/#q3">③ハッカイ</a>：<span class="em-blue">このクエストから仙術・神前試合解禁</span></li>
-    <li><a href="{{root}}pawaque/saikyuki/quest/#q4">④ゴジョー</a>：管理人はエリア3で交渉の指輪が初めてドロップしました。</li>
+    <li><a href="{{root}}pawaque/saikyuki/quest/#q4">④ゴジョー</a>：エリア3グッドゴールにて交渉の指輪が高確率でドロップします。</li>
+    <li><a href="{{root}}pawaque/saikyuki/quest/#q4">④ゴジョー</a>：<span class="tx-b">⑪で入手した袋ノ書で使える「袋変換の術」の仙術を使って、交渉術3が付いた銀・金レアリティの交渉の指輪を厳選するのに向いています。</span></li>
     <li><a href="{{root}}pawaque/saikyuki/quest/#q6">⑥刺客</a>：<span class="em-blue">祈願エンディングあり</span></li>
     <li><a href="{{root}}pawaque/saikyuki/quest/#q7">⑦ひょうたんの中</a>：<span class="em-red">仙術は使用不可</span></li>
     <li><a href="{{root}}pawaque/saikyuki/quest/#q7">⑦ひょうたんの中</a>：管理人はエリア2で払拭のお札が初めてドロップしました。</li>
     <li><a href="{{root}}pawaque/saikyuki/quest/#q8">⑧斉遊野球流</a>：<span class="em-red">仙術は使用不可</span></li>
-    <li><a href="{{root}}pawaque/saikyuki/quest/#q11">⑪決戦のとき</a>：<span class="em-blue">管理人はここで初めて袋ノ書がドロップしました。</span></li>
+    <li><a href="{{root}}pawaque/saikyuki/quest/#q11">⑪決戦のとき</a>：エリア1クリアで、袋ノ書が実践上確定でドロップします。</li>
+    <li><a href="{{root}}pawaque/saikyuki/quest/#q11">⑪決戦のとき</a>：<span class="tx-b">仙術「袋変換の術」を使って、銀・金レアリティかつ、優秀なスキルが付いた袋ノ書を厳選するのに向いています。</span></li>
+    <li><a href="{{root}}pawaque/saikyuki/quest/#q11">⑪決戦のとき</a>：スキルの狙い目は、<span class="em-blue">「ターンアップ」「〇カード特殊能力」</span>などです。</li>
+    <li><a href="{{root}}pawaque/saikyuki/quest/#q11">⑪決戦のとき</a>：実践上、<span class="tx-r">ここでドロップする袋ノ書には西球記専用スキル(祈願率UPなど)は追加で付かないようです。</span>付いた方いたらXなどで教えて頂けると幸いです。</li>
     <li><a href="{{root}}pawaque/saikyuki/quest/#q12">⑫旅は続く</a>：<span class="em-blue">祈願エンディングあり</span></li>
     <li><a href="{{root}}pawaque/saikyuki/quest/#q12">⑫旅は続く</a>：<span class="em-blue">管理人はここで初めてリュック＋がドロップしました。</span></li>
     <li><a href="{{root}}pawaque/saikyuki/quest/#q13">⑬道中１</a>：<span class="em-blue">祈願エンディングあり</span></li>

diff --git a/docs/pawaque/saikyuki/index.html b/docs/pawaque/saikyuki/index.html
@@ -96,12 +96,16 @@
   <h2 id="memo">クエストのポイント</h2>
   <ul>
     <li><a href="../../pawaque/saikyuki/quest/#q3">③ハッカイ</a>：<span class="em-blue">このクエストから仙術・神前試合解禁</span></li>
-    <li><a href="../../pawaque/saikyuki/quest/#q4">④ゴジョー</a>：管理人はエリア3で交渉の指輪が初めてドロップしました。</li>
+    <li><a href="../../pawaque/saikyuki/quest/#q4">④ゴジョー</a>：エリア3グッドゴールにて交渉の指輪が高確率でドロップします。</li>
+    <li><a href="../../pawaque/saikyuki/quest/#q4">④ゴジョー</a>：<span class="tx-b">⑪で入手した袋ノ書で使える「袋変換の術」の仙術を使って、交渉術3が付いた銀・金レアリティの交渉の指輪を厳選するのに向いています。</span></li>
     <li><a href="../../pawaque/saikyuki/quest/#q6">⑥刺客</a>：<span class="em-blue">祈願エンディングあり</span></li>
     <li><a href="../../pawaque/saikyuki/quest/#q7">⑦ひょうたんの中</a>：<span class="em-red">仙術は使用不可</span></li>
     <li><a href="../../pawaque/saikyuki/quest/#q7">⑦ひょうたんの中</a>：管理人はエリア2で払拭のお札が初めてドロップしました。</li>
     <li><a href="../../pawaque/saikyuki/quest/#q8">⑧斉遊野球流</a>：<span class="em-red">仙術は使用不可</span></li>
-    <li><a href="../../pawaque/saikyuki/quest/#q11">⑪決戦のとき</a>：<span class="em-blue">管理人はここで初めて袋ノ書がドロップしました。</span></li>
+    <li><a href="../../pawaque/saikyuki/quest/#q11">⑪決戦のとき</a>：エリア1クリアで、袋ノ書が実践上確定でドロップします。</li>
+    <li><a href="../../pawaque/saikyuki/quest/#q11">⑪決戦のとき</a>：<span class="tx-b">仙術「袋変換の術」を使って、銀・金レアリティかつ、優秀なスキルが付いた袋ノ書を厳選するのに向いています。</span></li>
+    <li><a href="../../pawaque/saikyuki/quest/#q11">⑪決戦のとき</a>：スキルの狙い目は、<span class="em-blue">「ターンアップ」「〇カード特殊能力」</span>などです。</li>
+    <li><a href="../../pawaque/saikyuki/quest/#q11">⑪決戦のとき</a>：実践上、<span class="tx-r">ここでドロップする袋ノ書には西球記専用スキル(祈願率UPなど)は追加で付かないようです。</span>付いた方いたらXなどで教えて頂けると幸いです。</li>
     <li><a href="../../pawaque/saikyuki/quest/#q12">⑫旅は続く</a>：<span class="em-blue">祈願エンディングあり</span></li>
     <li><a href="../../pawaque/saikyuki/quest/#q12">⑫旅は続く</a>：<span class="em-blue">管理人はここで初めてリュック＋がドロップしました。</span></li>
     <li><a href="../../pawaque/saikyuki/quest/#q13">⑬道中１</a>：<span class="em-blue">祈願エンディングあり</span></li>

diff --git a/tools/pawaque_quest_list.py b/tools/pawaque_quest_list.py
@@ -22,8 +22,15 @@ def item(x):
     return f'<span class="em-blue">{e(x)}</span>' if x.startswith("［") and "契約書" in x else e(x)
 
 
+def marks(s):
+    # 管理人メモの {青:…}＝青文字・{青太:…}＝青太字・{赤:…}＝赤文字（2026-11-17 管理人）
+    for tag, cls in (("青太", "em-blue"), ("青", "tx-b"), ("赤太", "em-red"), ("赤", "tx-r")):
+        s = re.sub(r"\{" + tag + r":(.*?)\}", lambda m: f'<span class="{cls}">{m.group(1)}</span>', s)
+    return s
+
+
 def txt(s):
-    return "<br>".join(item(x) for x in s.split("\n")) if s else SOON
+    return "<br>".join(marks(item(x)) for x in s.split("\n")) if s else SOON
 
 
 out = ['<div class="qc-list">']
@@ -54,7 +61,7 @@ for q in D["クエスト"]:
     tag = f'<span class="qc-tags">{"".join(tags)}</span>' if tags else ""
     # タップで詳細を開く（details）。#q4 などのリンクで来たら開く（ページ下のスクリプト）
     out.append(f'  <details class="qc qc-x" id="q{D["クエスト"].index(q) + 1}">')
-    out.append(f'    <summary><h3 class="qc-h"><span class="qc-t">{head}{tag}</span><span class="qc-a">エリア数<b>{area if area is not None else "－"}</b></span><span class="qc-arw" aria-hidden="true"></span></h3></summary>')
+    out.append(f'    <summary><h3 class="qc-h"><span class="qc-t"><span class="qc-n">{head}</span>{tag}</span><span class="qc-a">エリア数<b>{area if area is not None else "－"}</b></span><span class="qc-arw" aria-hidden="true"></span></h3></summary>')
     out.append('    <dl class="qc-d">' + "".join(f"<dt>{k}</dt><dd>{v}</dd>" for k, v in rows) + "</dl>")
     out.append("  </details>")
 out.append("</div>")

diff --git a/tools/pawaque_saikyuki_top.py b/tools/pawaque_saikyuki_top.py
@@ -35,7 +35,11 @@ def qid(q):
 
 
 def memo(t):
-    return e(t.replace("|", ""))
+    # 管理人メモの {青:…}＝青文字・{青太:…}＝青太字・{赤:…}＝赤文字（2026-11-17 管理人）
+    s = e(t.replace("|", ""))
+    for tag, cls in (("青太", "em-blue"), ("青", "tx-b"), ("赤太", "em-red"), ("赤", "tx-r")):
+        s = re.sub(r"\{" + tag + r":(.*?)\}", lambda m: f'<span class="{cls}">{m.group(1)}</span>', s)
+    return s
 
 
 def card(href, img, alt, w, h, label, sub, ready=True):
